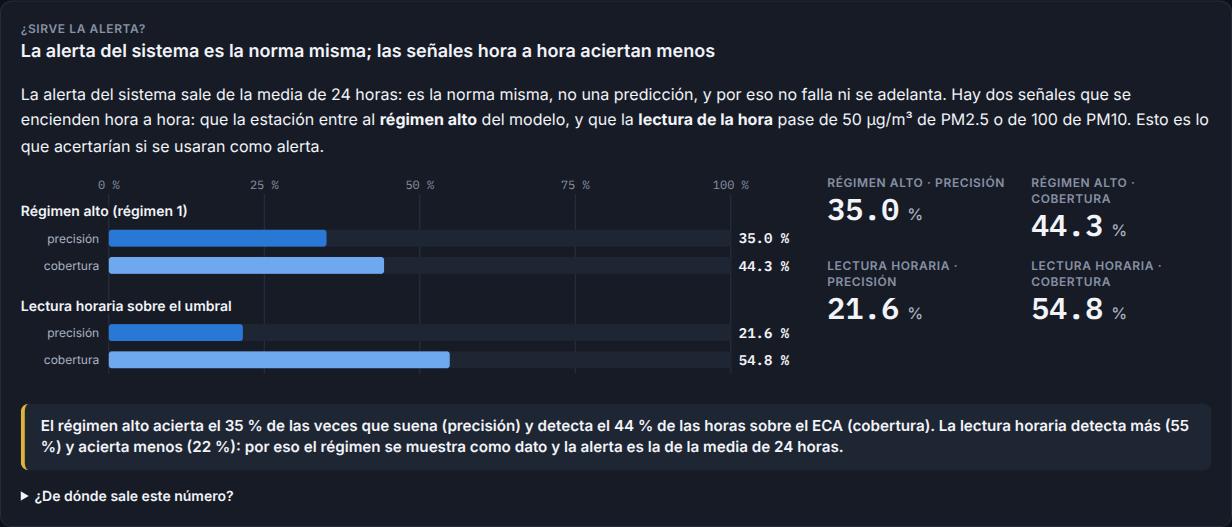
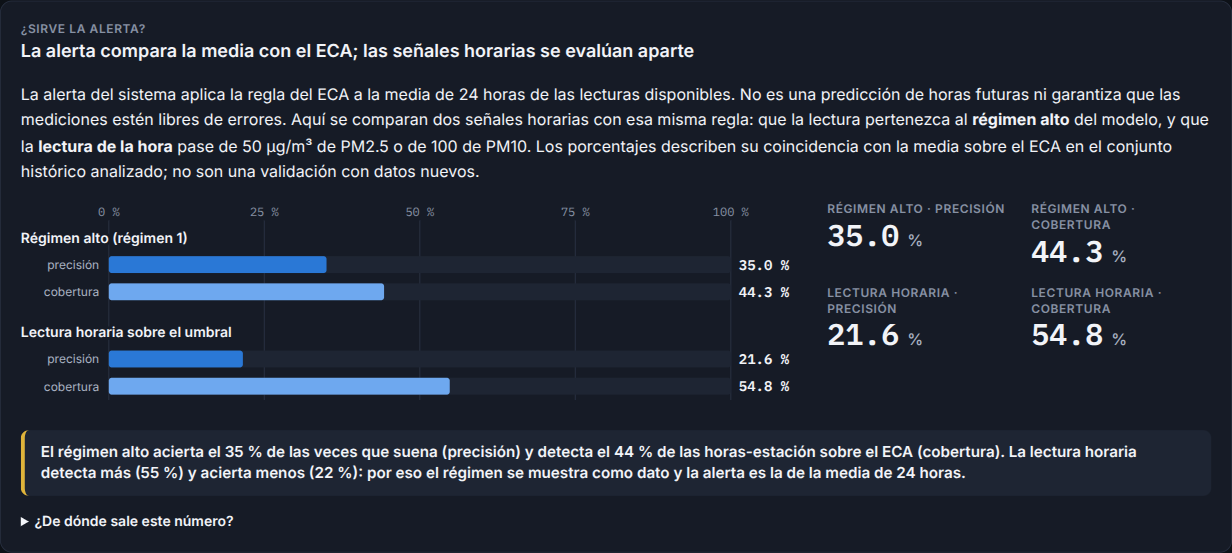
Capturas de Impacto tomadas otra vez, con los textos de la PR #115
Las nueve de capturas/tb2/impacto/, con los mismos nombres y la misma
ventana, sobre develop 8c77341 y un Compose limpio. Muestran los textos
revisados: horas-estación, «Dónde podría servir esta información», la
alerta que compara la media con el ECA y las señales descritas sobre el
conjunto histórico. Las cifras no cambian: salen del mismo impacto.json.
El README dice cuándo se tomaron y describe los textos nuevos.

diff --git a/docs/informe/capturas/tb2/README.md b/docs/informe/capturas/tb2/README.md
@@ -2,7 +2,8 @@
 
 Tomadas el **27/11/2026, entre las 18:32 y las 18:45 (hora de Lima)**, con Playwright (Chromium, ventana de
 1440 × 900) manejando la UI real contra el **Docker Compose del repo, levantado limpio** (commit `6d91f4f`, la
-punta de `develop`):
+punta de `develop`). Las de `impacto/` se volvieron a tomar el 28/11 sobre `develop` `8c77341`, después de la
+PR #115 que revisó los textos de esa pantalla (ver su sección):
 
 ```bash
 docker compose -p aire-tb2-frontend up --build -d --scale nodo=2   # UI en :8081, API en :8080
@@ -104,15 +105,22 @@ página entera; las demás, lo que entra en la ventana. El 3 de `pruebas/` descr
 
 ### `impacto/`
 
+Tomadas otra vez el **28/11/2026** sobre `develop` `8c77341`, con la PR #115 ya fusionada (revisión de los textos
+de Impacto, issue #101), contra un Compose levantado limpio con dos nodos, en la misma ventana de 1440 × 900, con
+la sesión de admin y con los mismos nombres de archivo. Impacto no depende del estado del sistema: sale de
+`/datos/impacto.json`, el mismo archivo que el 27/11 (SHA-256 `489c6cab…`), así que las cifras son las mismas y
+cambian solo los textos. `06-quienes-tendrian-aviso.png` conserva el nombre aunque la sección ahora se titula «Dónde
+podría servir esta información».
+
 | Archivo | Qué muestra |
 |---|---|
-| `01-impacto.png`, `02-impacto-completa.png` | La página de impacto, arriba y entera |
+| `01-impacto.png`, `02-impacto-completa.png` | La página de impacto, arriba y entera: mediciones históricas, que no son lecturas en vivo ni una medición de la exposición |
 | `03-eca-e-inca.png` | El problema: qué es el ECA y qué es el INCA |
-| `04-horas-sobre-eca.png` | 1 184 horas sobre el ECA de 64 748 con media calculable (1.8 %), y su reparto por banda INCA |
+| `04-horas-sobre-eca.png` | 1 184 horas-estación sobre el ECA de 64 748 con media calculable (1.8 %), donde la misma hora en dos estaciones cuenta dos veces, y su reparto por banda INCA |
 | `05-por-estacion.png` | Por estación, con su actividad fiscalizada y las semanas en que midió |
-| `06-quienes-tendrian-aviso.png` | Quiénes tendrían un aviso que hoy no tienen: la población del distrito fila por fila, sin sumarla |
-| `07-acierto-de-las-senales.png` | ¿Sirve la alerta?: precisión y cobertura de las señales hora a hora |
-| `08-anticipacion.png` | ¿Con cuánta anticipación?: 30 episodios, contados de las dos maneras (desde el primer encendido y sin interrupción) |
+| `06-quienes-tendrian-aviso.png` | «Dónde podría servir esta información»: los 10 distritos con estaciones de PM por hora y su población censada fila por fila, como contexto y sin sumarla; no cuenta usuarios, avisos recibidos ni expuestos |
+| `07-acierto-de-las-senales.png` | ¿Sirve la alerta?: la alerta compara la media de 24 horas con el ECA; la precisión y la cobertura de las dos señales horarias describen el conjunto histórico, no una validación con datos nuevos |
+| `08-anticipacion.png` | ¿Con cuánta anticipación?: 30 episodios, contados de las dos maneras (desde el primer encendido y sin interrupción), con lo que la medida no es |
 | `09-lo-que-no-puede-decir.png` | Lo que este dato no puede decir, a la vista |
 
 ### `armazon/`
